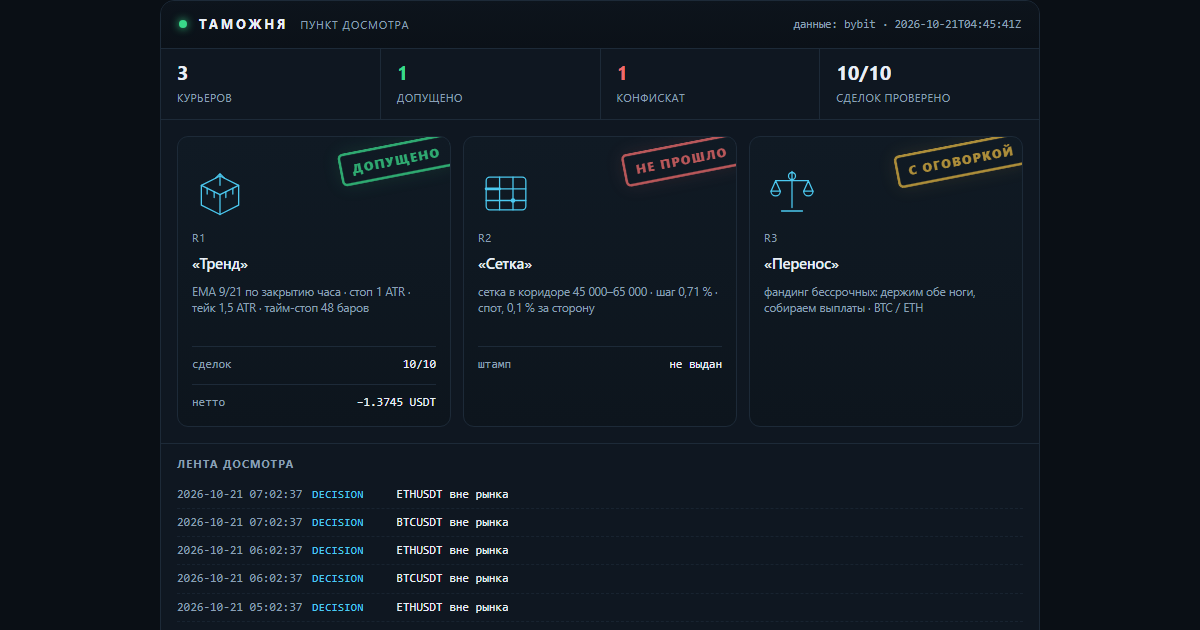
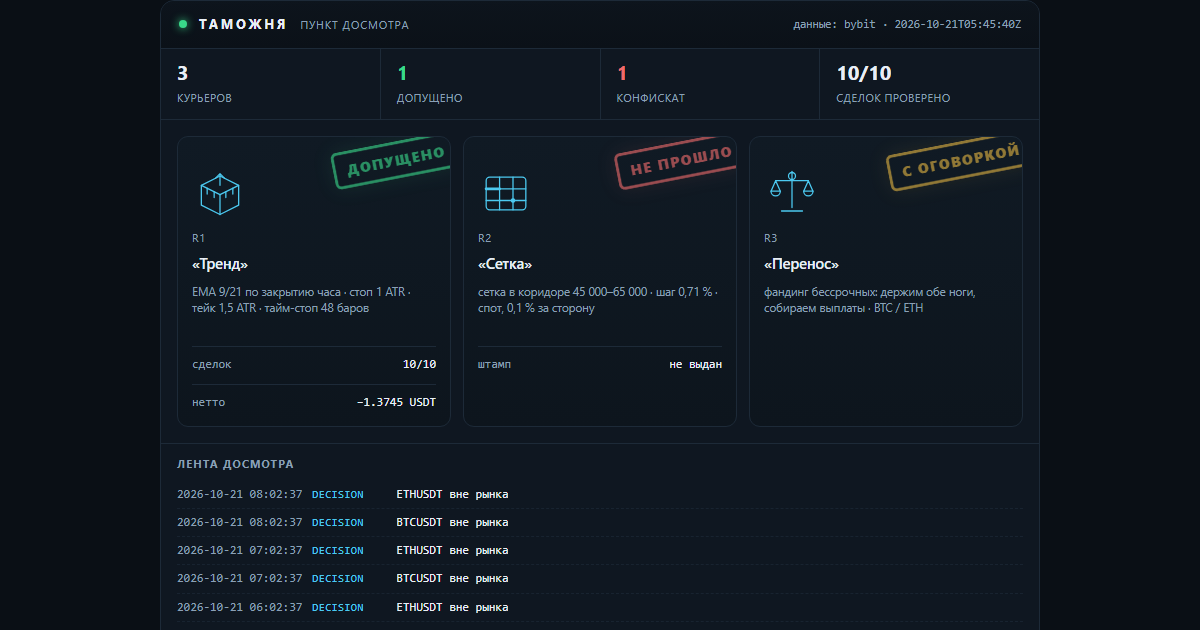
lab: таможня — свежие числа досмотра

Changed region(s): [[0.74, 0.2111, 0.8633, 0.3016], [0.4933, 0.2111, 0.6167, 0.3016], [0.2775, 0.2111, 0.37, 0.3016]]

diff --git a/docs/customs.html b/docs/customs.html
@@ -16,7 +16,7 @@
   <h1><a href="index.html">Gramwright Lab</a></h1>
   <p>Журнал проверки торговых гипотез: что проверяли, что вышло по факту, сколько съели издержки. Числа берутся из журнала стенда. Не инвестиционная рекомендация.</p>
 </header>
-<h1>Таможня</h1><p class="intro">Пункт досмотра заявленных результатов. Стратегии приезжают с грузом обещаний, и каждая проходит проверку по публичным данным биржи: цены существуют, комиссии по тарифу, нетто сходится. Что прошло — получает штамп. Что не прошло — в конфискат, с причиной. Штамп означает «записи подлинные», а не «стратегия прибыльна».</p><p><img src="img/customs.png" alt="Терминал досмотра: три курьера, штампы, лента событий" style="width:100%;height:auto;border:1px solid var(--line);border-radius:10px"></p><p class="c-note">Сверху — тот же терминал, что собирается из журналов: счётчики, эмблемы курьеров, штампы и лента последних событий. Ниже — то же самое текстом, чтобы читалось с телефона и индексировалось поиском.</p><article><h2>R1 «Тренд» <span class="verdict">— <span class="c-ok">допущено</span></span></h2><p><strong>Правило:</strong> EMA 9/21 по закрытию часа · стоп 1 ATR · тейк 1,5 ATR · тайм-стоп 48 баров</p><p><strong>Декларация:</strong> Заявлено до прогона: держать 30 сделок, лимит нотионала 10 % от счёта, стоп дня −1 %. Прибыль не заявлялась — это важно: курьер не обещал доход.</p><p><strong>Проверено по публичным свечам, без ключей:</strong> 10 из 10 сделок. Сумма нетто −1.3745 USDT.</p><ul class="c-chk"><li class="y">BTCUSDT: нетто −0.8746 USDT · комиссии 0.0901 · проверено · с поправкой</li><li class="y">BTCUSDT: нетто −0.5441 USDT · комиссии 0.0896 · проверено</li><li class="y">ETHUSDT: нетто −0.2253 USDT · комиссии 0.0266 · проверено</li><li class="y">ETHUSDT: нетто −0.1513 USDT · комиссии 0.0265 · проверено</li><li class="y">ETHUSDT: нетто +0.1984 USDT · комиссии 0.0262 · проверено</li><li class="y">ETHUSDT: нетто +0.1617 USDT · комиссии 0.0260 · проверено</li><li class="y">ETHUSDT: нетто +0.2645 USDT · комиссии 0.0263 · проверено</li><li class="y">BTCUSDT: нетто +0.6246 USDT · комиссии 0.0897 · проверено</li><li class="y">BTCUSDT: нетто −0.5881 USDT · комиссии 0.0910 · проверено</li><li class="y">ETHUSDT: нетто −0.2403 USDT · комиссии 0.0270 · проверено</li></ul><p class="tags">журнал sha256 ff341b621143e885… · проверяльщик verify-1</p><p class="c-note">Штамп означает: записи подлинные, а не что стратегия прибыльна. Курьер в минусе, и минус тоже стоит на штампе — иначе это была бы не проверка, а реклама.</p><p class="tags">источник: verify-report.json</p></article><article><h2>R2 «Сетка» <span class="verdict">— <span class="c-bad">не прошло</span></span></h2><p><strong>Правило:</strong> сетка в коридоре 45 000–65 000 · шаг 0,71 % · спот, 0,1 % за сторону</p><p><strong>Декларация:</strong> Заявлено: «44 % урожая уходит бирже в виде комиссий». Кроме того — перевес над простым владением монетой.</p><p><strong>Что сошлось:</strong></p><ul class="c-chk"><li class="y">сами числа пересчитаны и воспроизводятся: коридор 45–65k был активен 23 % всей истории и 28 % последних двух лет</li></ul><p><strong>Что не сошлось:</strong></p><ul class="c-chk"><li class="n">44 % не подтвердилось: при шаге 0,71 % и тарифе 0,1 % комиссия съедает 28,3 % шага. Чтобы получить 44 %, нужен шаг 0,45 % — это около 80 уровней, а не 50</li><li class="n">от урожая доля комиссий 85,5 % за всю историю и 49,6 % за последние два года — тоже не 44 %</li><li class="n">перевес над владением посчитан на тарифе 0,055 %: при нём +1,32 п. п., на розничном 0,1 % — −0,72 п. п. То есть перевес исчезает</li><li class="n">семилетний тест стартовал в сентябре 2019 при биткоине около 10 000 — ниже коридора. Он говорит, что фиксированный коридор не подходит для периода, а не что сетка отстаёт</li></ul><p class="tags">источник: lab_grid.py, пересчёт 17.10.2026</p></article><article><h2>R3 «Перенос» <span class="verdict">— <span class="c-warn">с оговоркой</span></span></h2><p><strong>Правило:</strong> фандинг бессрочных: держим обе ноги, собираем выплаты · BTC / ETH</p><p><strong>Декларация:</strong> Заявлено: около 11,9 % в год от выплат фандинга при просадке выплатной кривой меньше 2 %.</p><p><strong>Что сошлось:</strong></p><ul class="c-chk"><li class="y">выплаты взяты из публичной истории биржи, ключей не нужно: BTC — 7 190 выплат с 25.03.2020, ETH — 6 561 с 21.10.2020</li><li class="y">сумма сходится: +83,4 % и +83,2 % за 6,6 и 6,0 года — те самые ~11,9 % в год</li><li class="y">худшая просадка выплатной кривой: −1,65 % и −1,97 %</li></ul><p><strong>Что не сошлось:</strong></p><ul class="c-chk"><li class="n">оговорка 1: премию сжали — 2021 год дал +38,3 %, 2026 — +1,96 %. Прошлое не повторяется</li><li class="n">оговорка 2: вход-выход стоит около 0,31 %, капитала нужно 1,2 от нотионала, текущий базис −0,082 % против входа</li><li class="n">оговорка 3: риск площадки. История FTX в этой же таблице выглядела так же прилично</li></ul><p class="tags">источник: публичная история фандинга Bybit, замер 17.10.2026</p></article><div class="c-conf"><h3>Конфискат</h3><p><strong>«Сетка»: заявленные 44 % комиссий не подтвердились.</strong> Досмотр показал 28,3 % от шага и 85,5 % от урожая — цифра хуже заявленной по форме, но лучше по смыслу: сетку убивает не размер шага, а то, что урожай почти весь уходит в комиссии. Это и вышло в выпуск — с поправкой, а не с красивой цифрой.</p></div><p class="c-note">Пломба: <code>2026-10-21T04:45:41Z</code> · нотариус FreeTSA · Oct 21 04:45:41 2026 GMT · подпись подтверждена. Манифест скрепляет отчёт проверки, журнал сделок и декларации курьеров: подменишь любую цифру — пломба перестанет сходиться.</p><p class="c-note">Досмотр идёт по публичным минутным свечам и публичной истории фандинга — ключей у проверяющего нет, и он может повторить проверку сам.</p><p class="c-note">Контент образовательный, не является инвестиционной рекомендацией. Торговля связана с риском потери капитала.</p>
+<h1>Таможня</h1><p class="intro">Пункт досмотра заявленных результатов. Стратегии приезжают с грузом обещаний, и каждая проходит проверку по публичным данным биржи: цены существуют, комиссии по тарифу, нетто сходится. Что прошло — получает штамп. Что не прошло — в конфискат, с причиной. Штамп означает «записи подлинные», а не «стратегия прибыльна».</p><p><img src="img/customs.png" alt="Терминал досмотра: три курьера, штампы, лента событий" style="width:100%;height:auto;border:1px solid var(--line);border-radius:10px"></p><p class="c-note">Сверху — тот же терминал, что собирается из журналов: счётчики, эмблемы курьеров, штампы и лента последних событий. Ниже — то же самое текстом, чтобы читалось с телефона и индексировалось поиском.</p><article><h2>R1 «Тренд» <span class="verdict">— <span class="c-ok">допущено</span></span></h2><p><strong>Правило:</strong> EMA 9/21 по закрытию часа · стоп 1 ATR · тейк 1,5 ATR · тайм-стоп 48 баров</p><p><strong>Декларация:</strong> Заявлено до прогона: держать 30 сделок, лимит нотионала 10 % от счёта, стоп дня −1 %. Прибыль не заявлялась — это важно: курьер не обещал доход.</p><p><strong>Проверено по публичным свечам, без ключей:</strong> 10 из 10 сделок. Сумма нетто −1.3745 USDT.</p><ul class="c-chk"><li class="y">BTCUSDT: нетто −0.8746 USDT · комиссии 0.0901 · проверено · с поправкой</li><li class="y">BTCUSDT: нетто −0.5441 USDT · комиссии 0.0896 · проверено</li><li class="y">ETHUSDT: нетто −0.2253 USDT · комиссии 0.0266 · проверено</li><li class="y">ETHUSDT: нетто −0.1513 USDT · комиссии 0.0265 · проверено</li><li class="y">ETHUSDT: нетто +0.1984 USDT · комиссии 0.0262 · проверено</li><li class="y">ETHUSDT: нетто +0.1617 USDT · комиссии 0.0260 · проверено</li><li class="y">ETHUSDT: нетто +0.2645 USDT · комиссии 0.0263 · проверено</li><li class="y">BTCUSDT: нетто +0.6246 USDT · комиссии 0.0897 · проверено</li><li class="y">BTCUSDT: нетто −0.5881 USDT · комиссии 0.0910 · проверено</li><li class="y">ETHUSDT: нетто −0.2403 USDT · комиссии 0.0270 · проверено</li></ul><p class="tags">журнал sha256 28df31d11dad54eb… · проверяльщик verify-1</p><p class="c-note">Штамп означает: записи подлинные, а не что стратегия прибыльна. Курьер в минусе, и минус тоже стоит на штампе — иначе это была бы не проверка, а реклама.</p><p class="tags">источник: verify-report.json</p></article><article><h2>R2 «Сетка» <span class="verdict">— <span class="c-bad">не прошло</span></span></h2><p><strong>Правило:</strong> сетка в коридоре 45 000–65 000 · шаг 0,71 % · спот, 0,1 % за сторону</p><p><strong>Декларация:</strong> Заявлено: «44 % урожая уходит бирже в виде комиссий». Кроме того — перевес над простым владением монетой.</p><p><strong>Что сошлось:</strong></p><ul class="c-chk"><li class="y">сами числа пересчитаны и воспроизводятся: коридор 45–65k был активен 23 % всей истории и 28 % последних двух лет</li></ul><p><strong>Что не сошлось:</strong></p><ul class="c-chk"><li class="n">44 % не подтвердилось: при шаге 0,71 % и тарифе 0,1 % комиссия съедает 28,3 % шага. Чтобы получить 44 %, нужен шаг 0,45 % — это около 80 уровней, а не 50</li><li class="n">от урожая доля комиссий 85,5 % за всю историю и 49,6 % за последние два года — тоже не 44 %</li><li class="n">перевес над владением посчитан на тарифе 0,055 %: при нём +1,32 п. п., на розничном 0,1 % — −0,72 п. п. То есть перевес исчезает</li><li class="n">семилетний тест стартовал в сентябре 2019 при биткоине около 10 000 — ниже коридора. Он говорит, что фиксированный коридор не подходит для периода, а не что сетка отстаёт</li></ul><p class="tags">источник: lab_grid.py, пересчёт 17.10.2026</p></article><article><h2>R3 «Перенос» <span class="verdict">— <span class="c-warn">с оговоркой</span></span></h2><p><strong>Правило:</strong> фандинг бессрочных: держим обе ноги, собираем выплаты · BTC / ETH</p><p><strong>Декларация:</strong> Заявлено: около 11,9 % в год от выплат фандинга при просадке выплатной кривой меньше 2 %.</p><p><strong>Что сошлось:</strong></p><ul class="c-chk"><li class="y">выплаты взяты из публичной истории биржи, ключей не нужно: BTC — 7 190 выплат с 25.03.2020, ETH — 6 561 с 21.10.2020</li><li class="y">сумма сходится: +83,4 % и +83,2 % за 6,6 и 6,0 года — те самые ~11,9 % в год</li><li class="y">худшая просадка выплатной кривой: −1,65 % и −1,97 %</li></ul><p><strong>Что не сошлось:</strong></p><ul class="c-chk"><li class="n">оговорка 1: премию сжали — 2021 год дал +38,3 %, 2026 — +1,96 %. Прошлое не повторяется</li><li class="n">оговорка 2: вход-выход стоит около 0,31 %, капитала нужно 1,2 от нотионала, текущий базис −0,082 % против входа</li><li class="n">оговорка 3: риск площадки. История FTX в этой же таблице выглядела так же прилично</li></ul><p class="tags">источник: публичная история фандинга Bybit, замер 17.10.2026</p></article><div class="c-conf"><h3>Конфискат</h3><p><strong>«Сетка»: заявленные 44 % комиссий не подтвердились.</strong> Досмотр показал 28,3 % от шага и 85,5 % от урожая — цифра хуже заявленной по форме, но лучше по смыслу: сетку убивает не размер шага, а то, что урожай почти весь уходит в комиссии. Это и вышло в выпуск — с поправкой, а не с красивой цифрой.</p></div><p class="c-note">Пломба: <code>2026-10-21T05:45:40Z</code> · нотариус FreeTSA · Oct 21 05:45:40 2026 GMT · подпись подтверждена. Манифест скрепляет отчёт проверки, журнал сделок и декларации курьеров: подменишь любую цифру — пломба перестанет сходиться.</p><p class="c-note">Досмотр идёт по публичным минутным свечам и публичной истории фандинга — ключей у проверяющего нет, и он может повторить проверку сам.</p><p class="c-note">Контент образовательный, не является инвестиционной рекомендацией. Торговля связана с риском потери капитала.</p>
 <footer class="site">
   Код стенда и аудитора: <a href="https://github.com/XSlaidx/truth-engine">XSlaidx/truth-engine</a>
   &middot; <a href="graveyard.html">кладбище правил</a>
